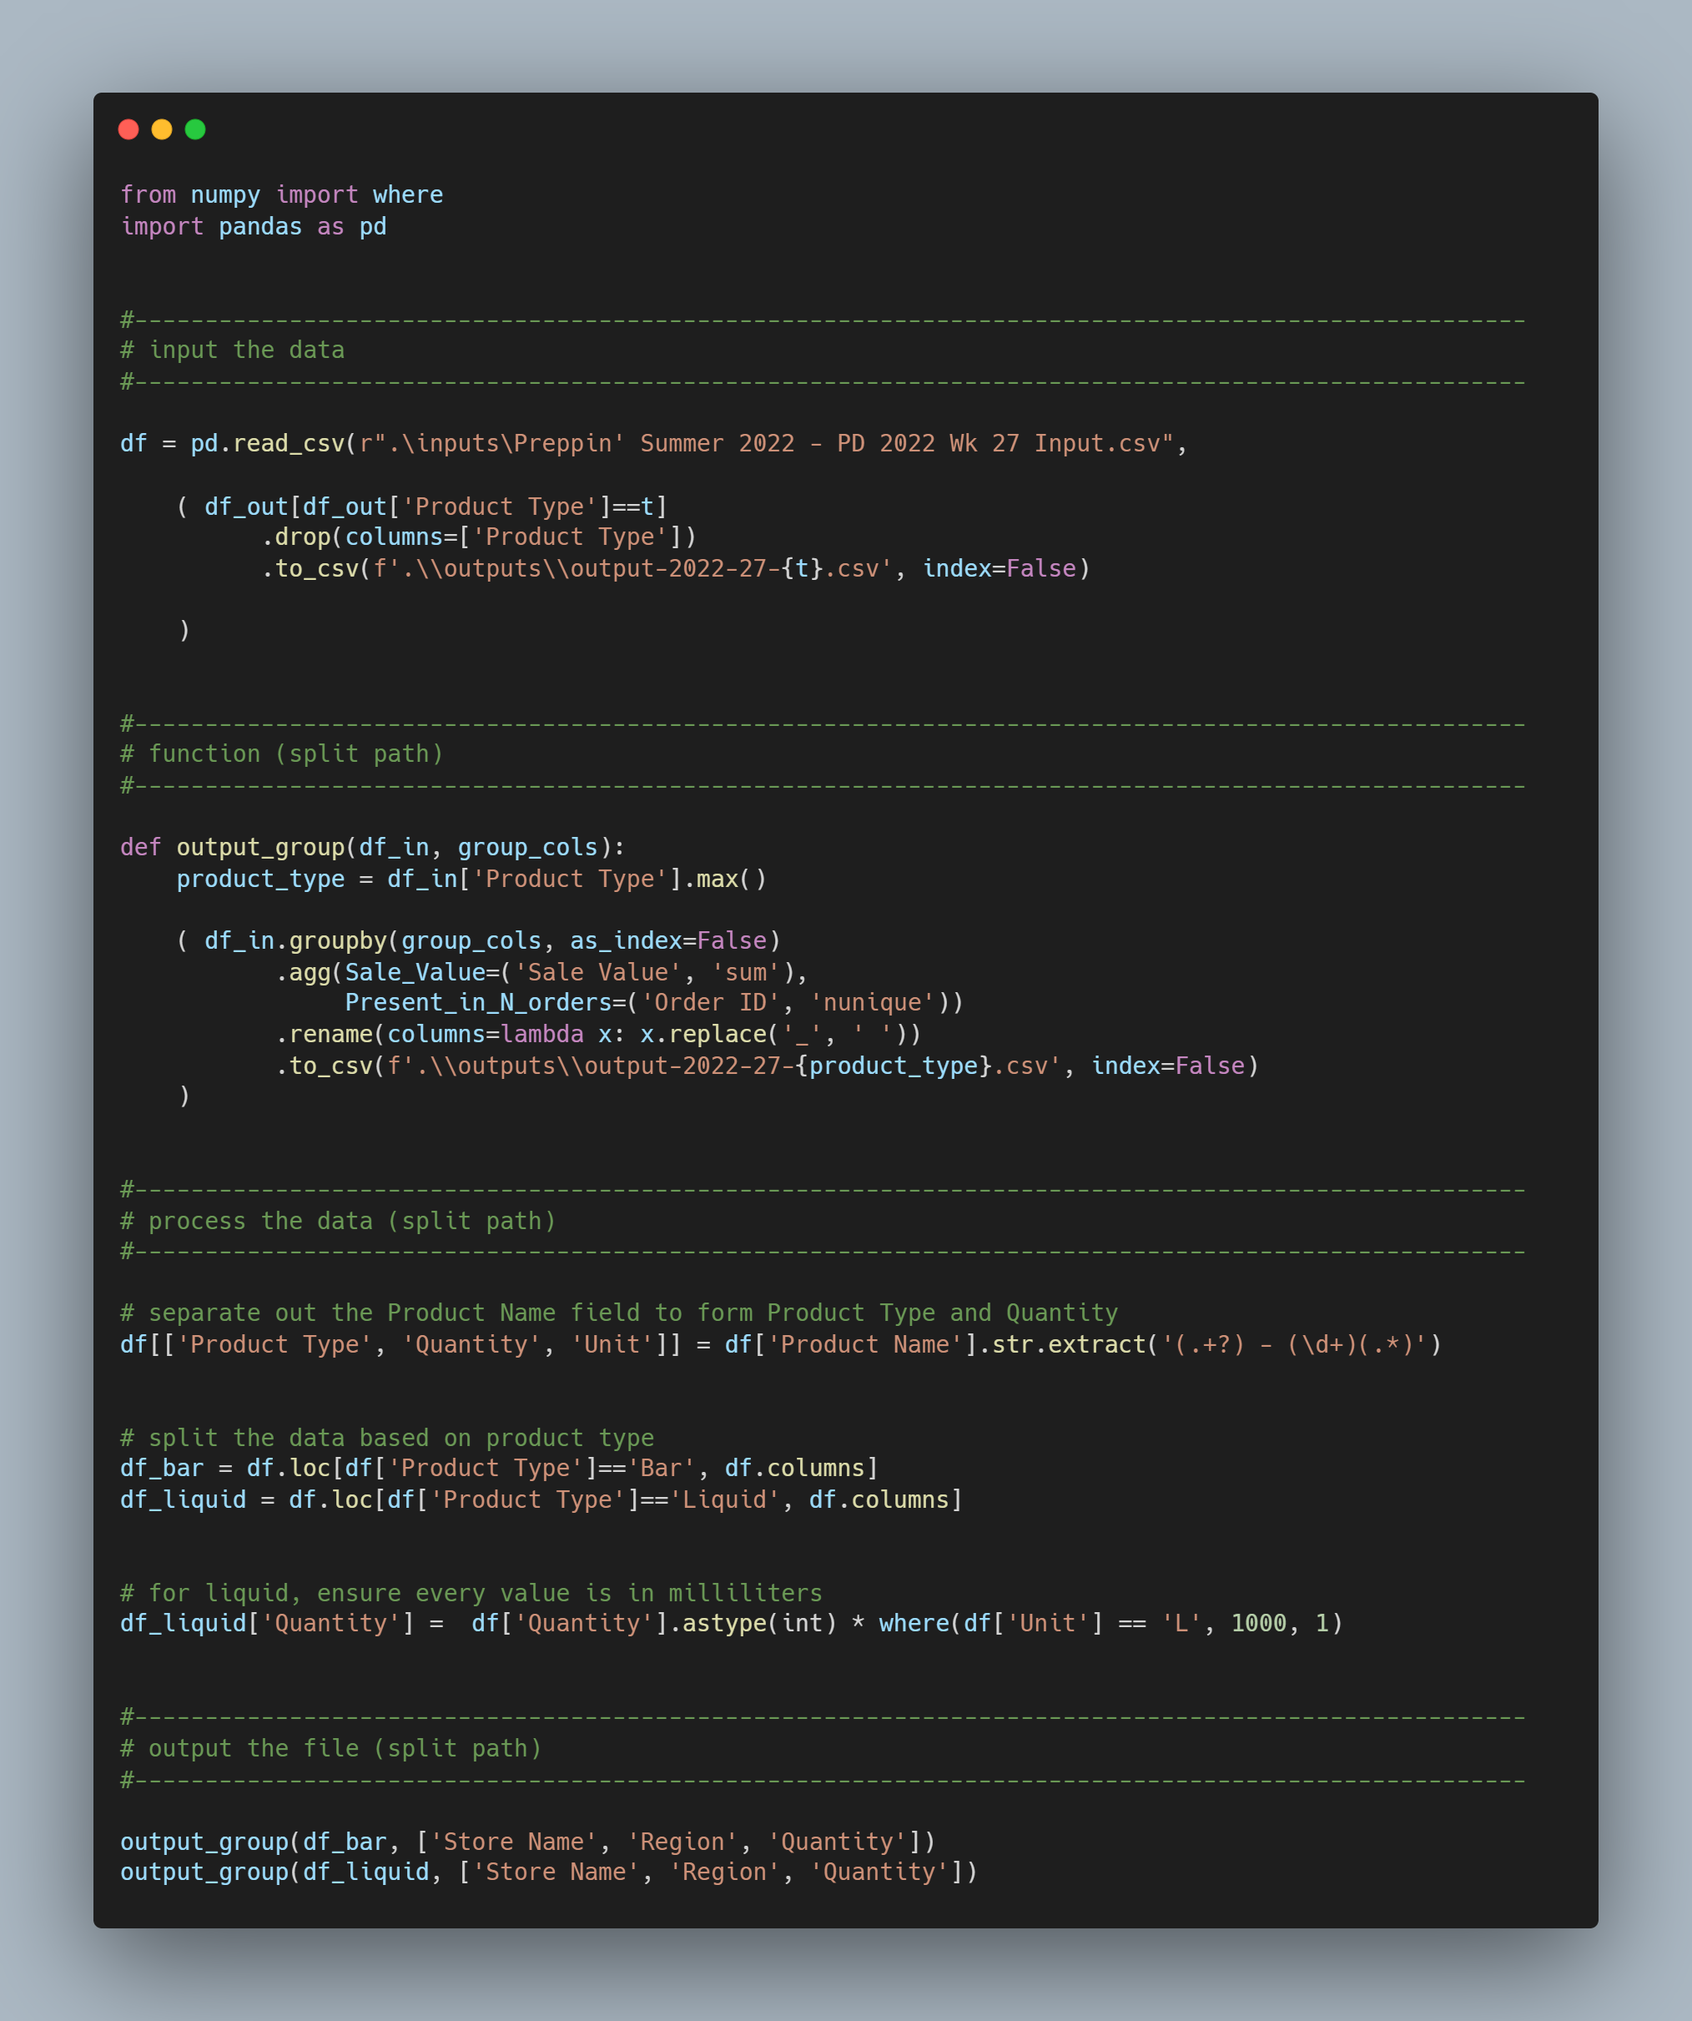
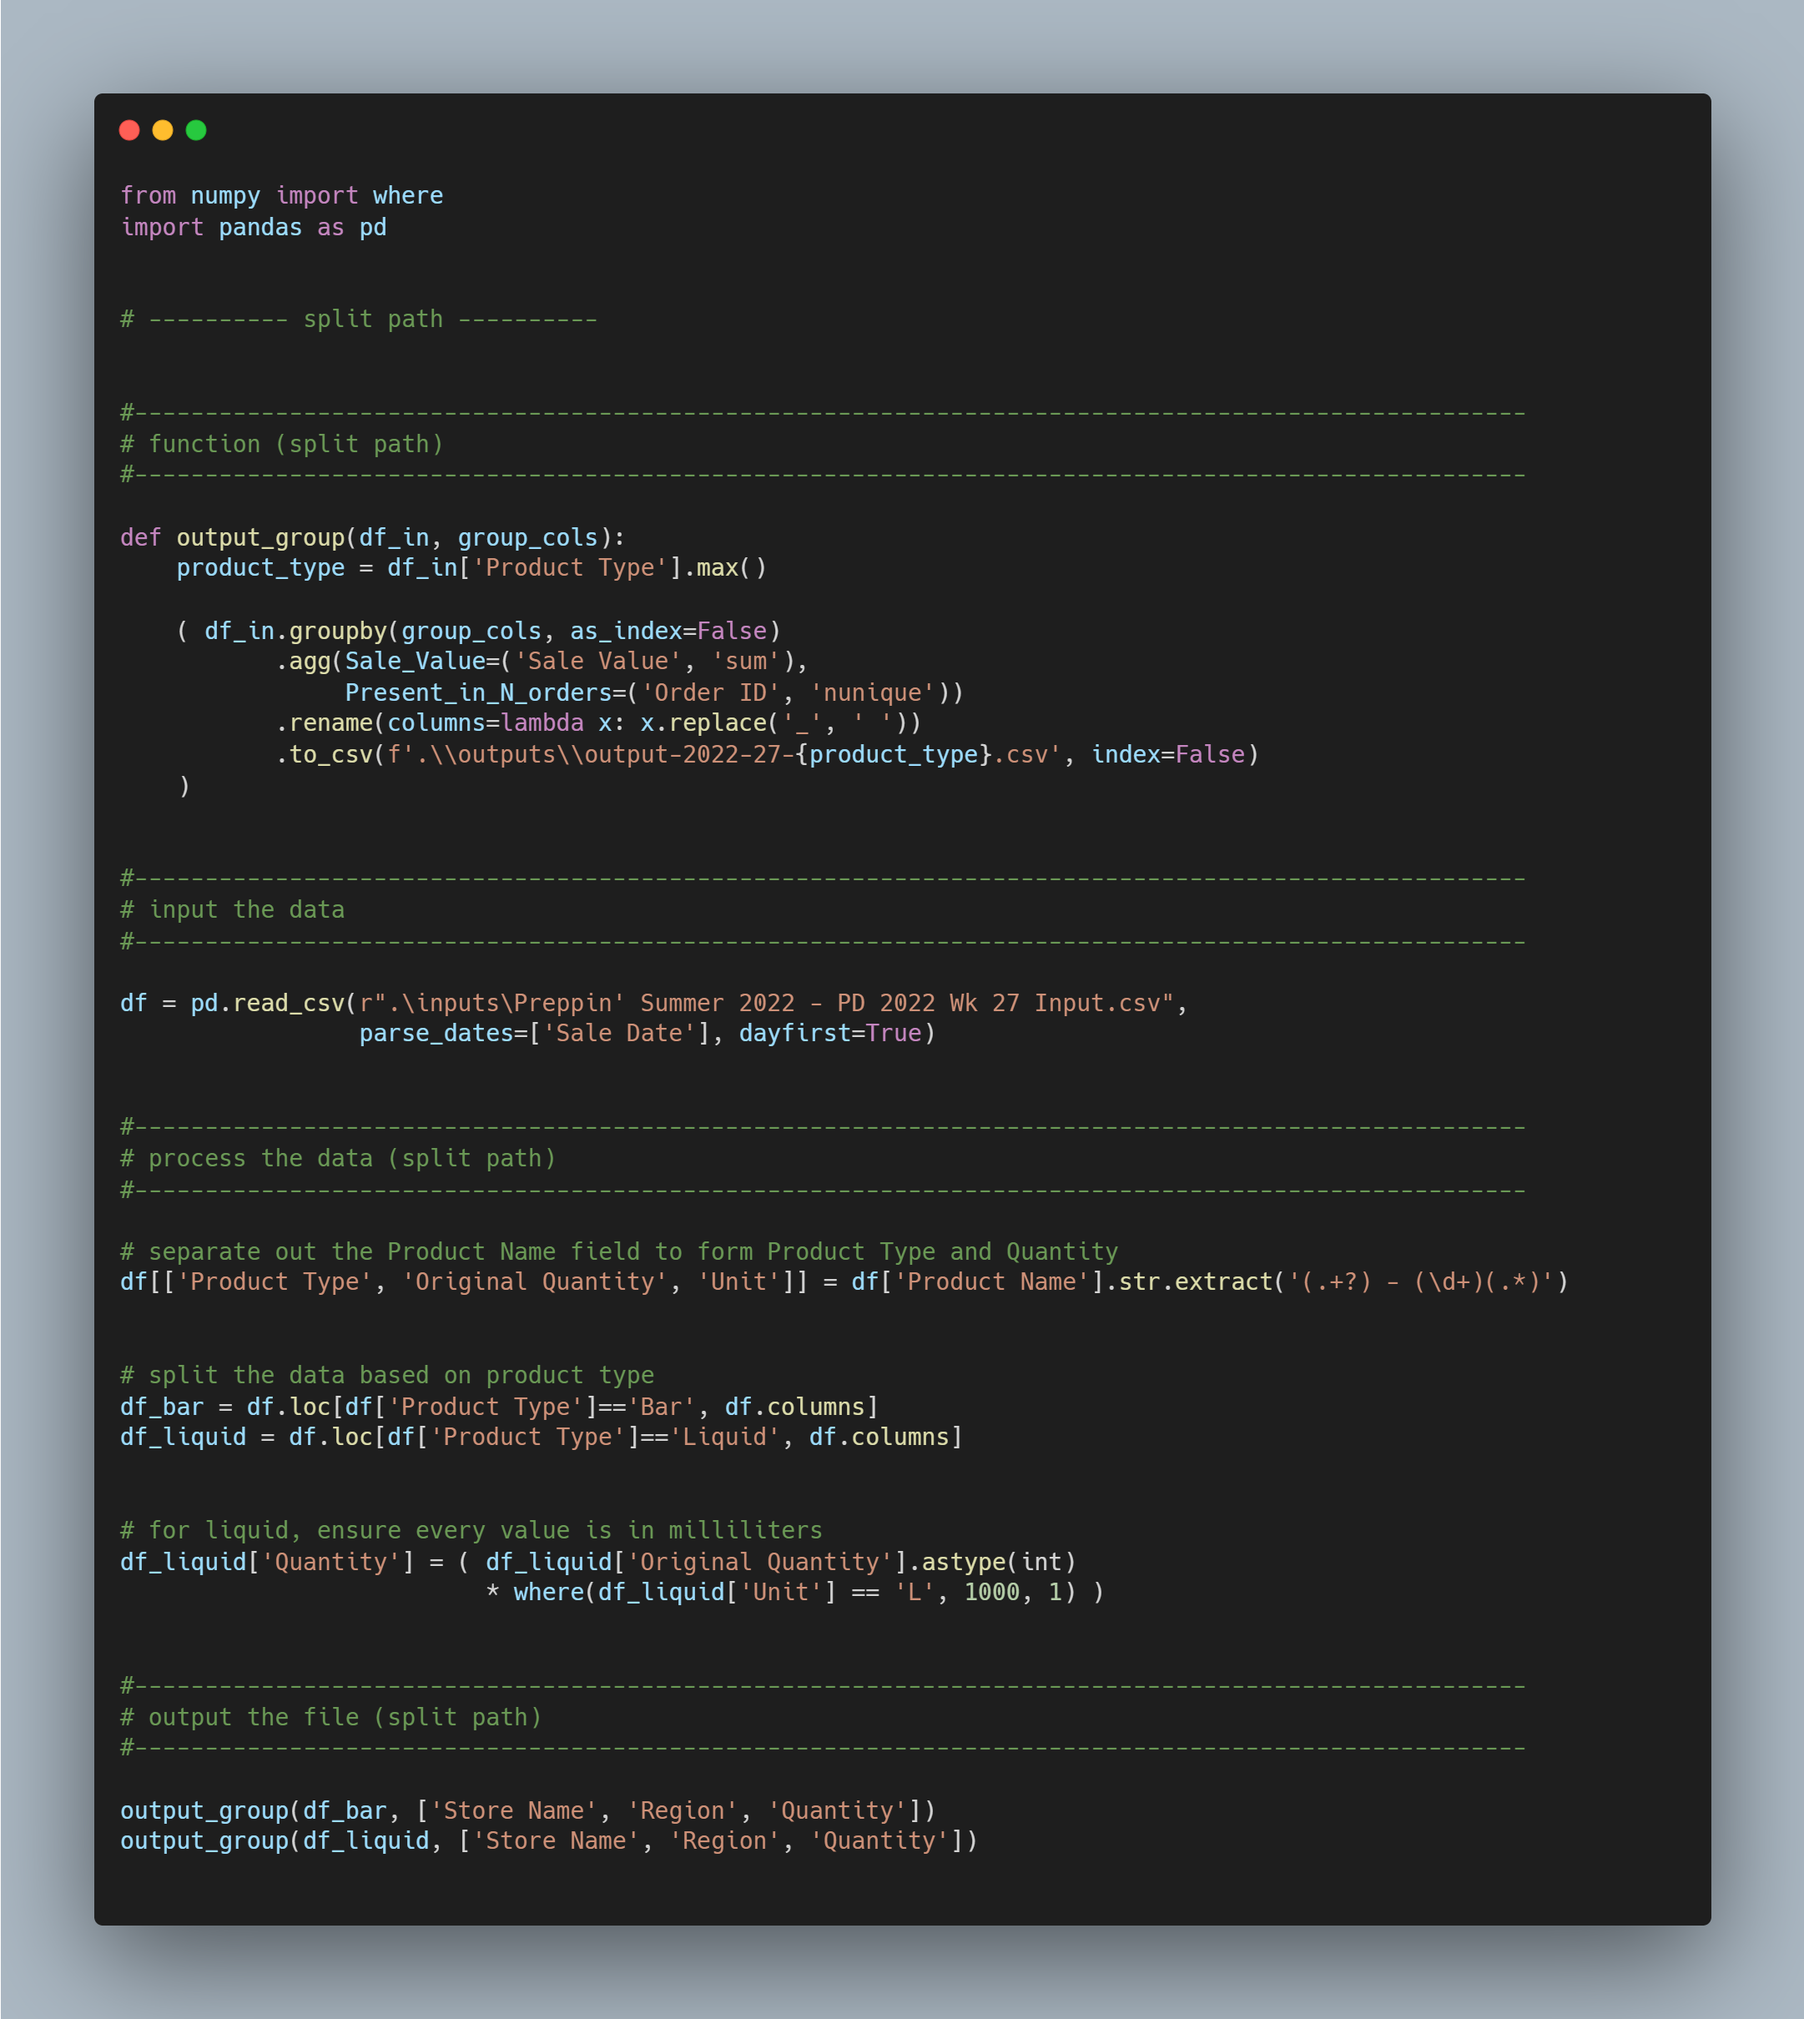
Added files for week 2022-27

diff --git a/2022/preppin-data-2022-27/preppin-data-2022-27.py b/2022/preppin-data-2022-27/preppin-data-2022-27.py
@@ -70,7 +70,6 @@ for t in df_out['Product Type'].unique():
     ( df_out[df_out['Product Type']==t]
           .drop(columns=['Product Type'])
           .to_csv(f'.\\outputs\\output-2022-27-{t}.csv', index=False)
-
     )
 
 
@@ -109,7 +108,7 @@ df = pd.read_csv(r".\inputs\Preppin' Summer 2022 - PD 2022 Wk 27 Input.csv",
 #---------------------------------------------------------------------------------------------------
 
 # separate out the Product Name field to form Product Type and Quantity
-df[['Product Type', 'Quantity', 'Unit']] = df['Product Name'].str.extract('(.+?) - (\d+)(.*)')
+df[['Product Type', 'Original Quantity', 'Unit']] = df['Product Name'].str.extract('(.+?) - (\d+)(.*)')
 
 
 # split the data based on product type
@@ -118,7 +117,8 @@ df_liquid = df.loc[df['Product Type']=='Liquid', df.columns]
 
 
 # for liquid, ensure every value is in milliliters
-df_liquid['Quantity'] =  df['Quantity'].astype(int) * where(df['Unit'] == 'L', 1000, 1)
+df_liquid['Quantity'] = ( df_liquid['Original Quantity'].astype(int) 
+                          * where(df_liquid['Unit'] == 'L', 1000, 1) )
 
 
 #---------------------------------------------------------------------------------------------------
